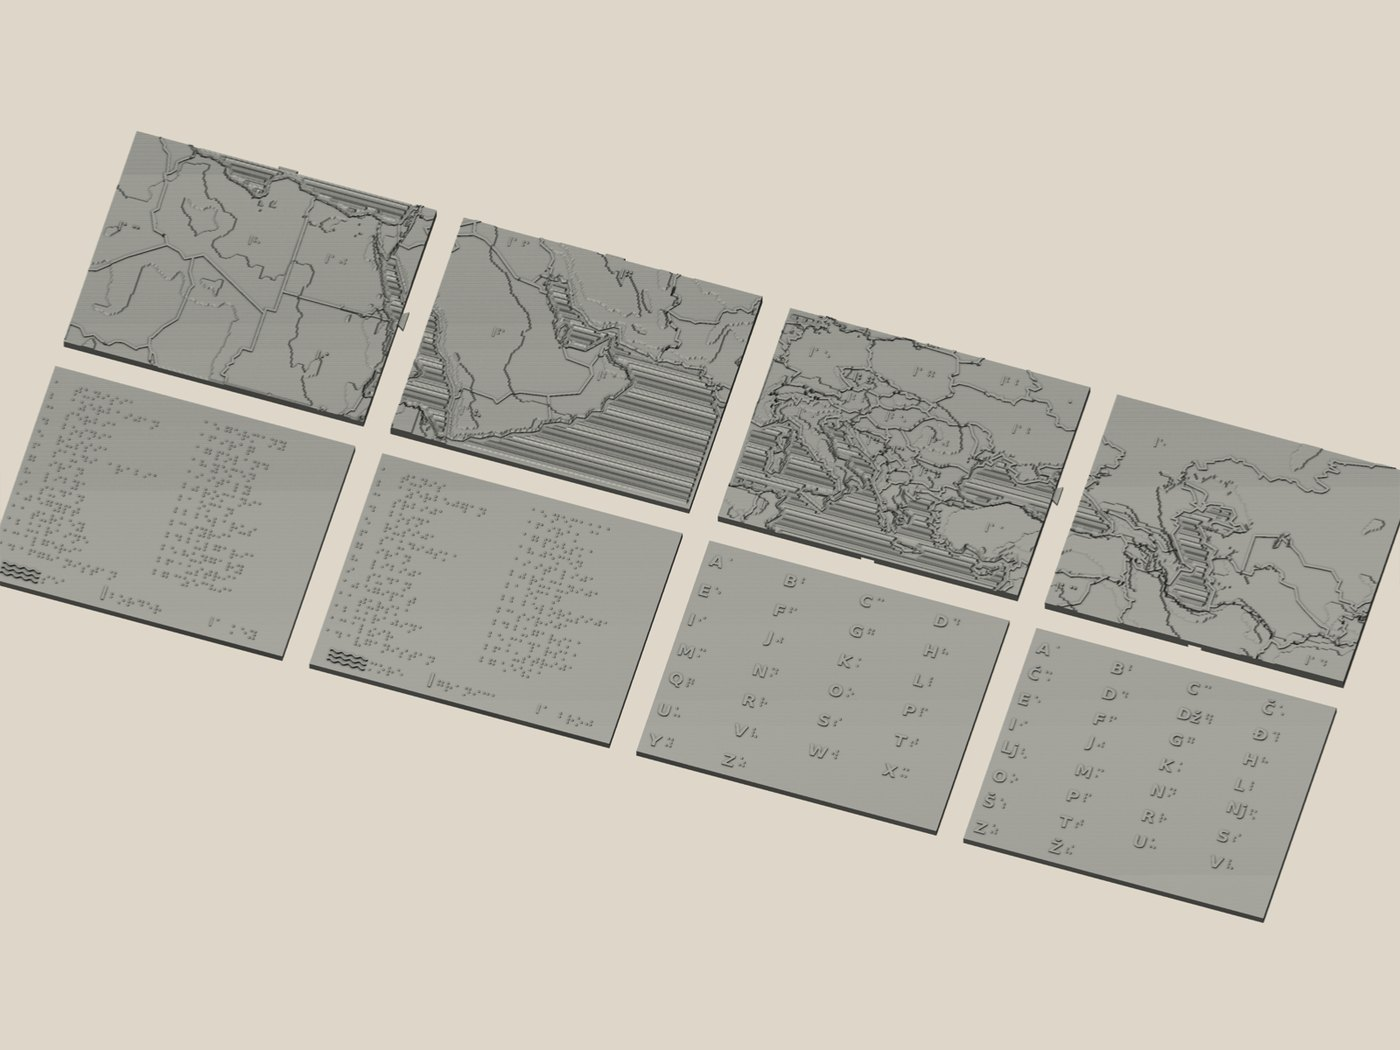
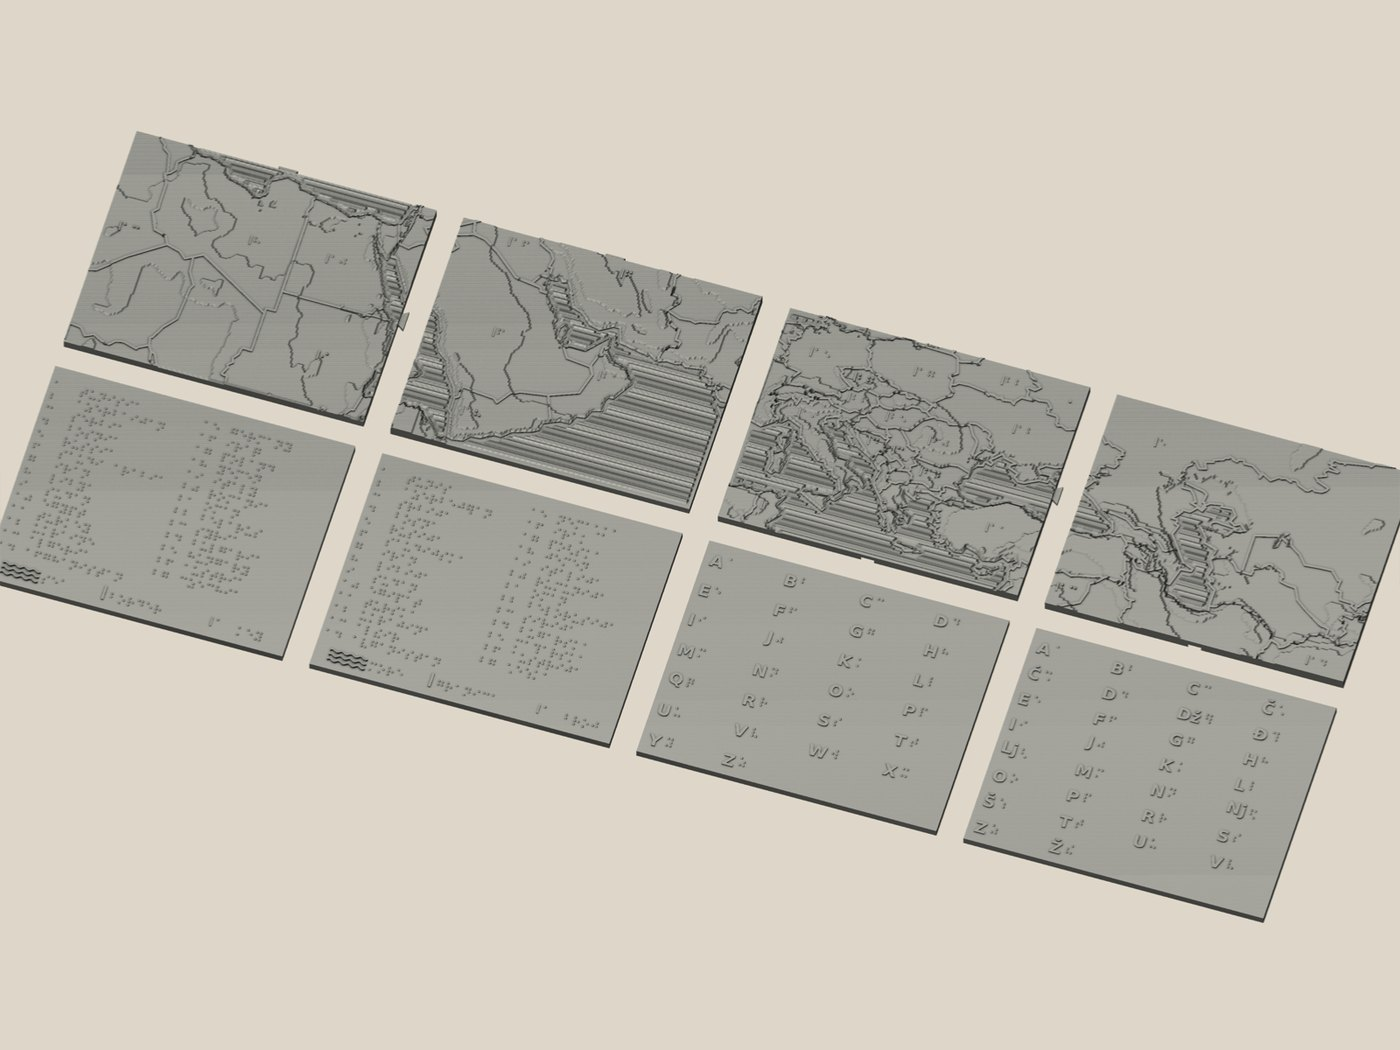
Put a real blank cell between the legend key and the country name
The name started at a fixed x+14 while the key is one cell for 1-9 and two
for 10-27. A word break in braille IS a blank cell - 12 mm at our 6 mm cell
pitch - and a two-cell key left only 8 mm, just 2 mm more than the ordinary
gap between adjacent cells. Under a finger '24 bugarska' ran together as
one string of cells, bdbugarska. 18 of the 27 rows read that way.

Names now start at x + 3 cell pitches, so the gap is 12 mm after a two-cell
key and 18 mm after a one-cell key - never less than a blank cell, and the
names stay aligned down the column instead of going ragged. Same fix on the
Serbian legend, and the same 12 mm minimum applied to the key/broj sample
label in the bottom strip. A 12-cell name still ends 8.7 mm inside its
column.

Verified on the exported card_legend.stl: dot columns at 4.0/6.5 (key cell
1), 10.0/12.5 (key cell 2), 22.0/24.5 (first name cell) - exactly one blank
cell between key and name.

diff --git a/core/generate.py b/core/generate.py
@@ -770,8 +770,13 @@ def create_legend_card(number_legend):
                 all_faces.append(kf + vert_offset)
                 vert_offset += len(kv)
 
-        # Country name in Braille (truncate to fit)
-        braille_x = x + 14
+        # Country name in Braille (truncate to fit).
+        # Offset = widest key (2 cells = 12 mm) + one BLANK cell (6 mm). A word
+        # break in braille IS a blank cell; at the old x+14 a two-cell key left
+        # only 8 mm to the name — 2 mm more than the ordinary 6 mm cell pitch —
+        # so "24 bugarska" read as one run, "bdbugarska". Fixed offset (not
+        # key-relative) keeps every name starting at the same x down the column.
+        braille_x = x + 2 * BRAILLE_CELL_PITCH_MM + BRAILLE_CELL_PITCH_MM
         short_name = name[:max_chars].lower()
 
         braille_verts, braille_faces = create_braille_text(
@@ -854,7 +859,7 @@ def create_legend_card(number_legend):
         all_verts.append(kv)
         all_faces.append(kf + vert_offset)
         vert_offset += len(kv)
-    lbl_verts, lbl_faces = create_braille_text("key", key_x + 14, label_y, base_z)
+    lbl_verts, lbl_faces = create_braille_text("key", key_x + 18, label_y, base_z)
     if len(lbl_verts) > 0:
         all_verts.append(lbl_verts)
         all_faces.append(lbl_faces + vert_offset)

diff --git a/core/serbian_legend.py b/core/serbian_legend.py
@@ -87,7 +87,10 @@ def build_serbian_legend(number_legend, out_path, embed=EMBED_MM, verbose=True):
         for i, dots in enumerate(braille_number_cells(str(num))):
             add(*create_braille_cell_dots(dots, x + i * BRAILLE_CELL_PITCH_MM, y, 0))
         name = name_sr(iso) or iso
-        bv, bf = serbian_braille_text(name, x + 14, y, 0)
+        # x + 18 = widest key (2 cells) + one BLANK cell: a word break in braille
+        # is a blank cell, and the old x+14 left a two-cell key only 8 mm of gap,
+        # so the key ran into the name under the finger. See generate.py.
+        bv, bf = serbian_braille_text(name, x + 3 * BRAILLE_CELL_PITCH_MM, y, 0)
         add(bv, bf)
 
     # texture samples: one bottom strip, Serbian label to the RIGHT of each
@@ -119,7 +122,7 @@ def build_serbian_legend(number_legend, out_path, embed=EMBED_MM, verbose=True):
     add(*create_braille_cell_dots(
         BRAILLE_DIGITS['1'], key_x + ANCHOR_LEAD_MM + BRAILLE_DOT_RADIUS_MM,
         sample_y + sample_h / 2 - BRAILLE_DOT_PITCH_MM, 0))
-    add(*serbian_braille_text("broj", key_x + 14, label_y, 0))
+    add(*serbian_braille_text("broj", key_x + 18, label_y, 0))
 
     soup = trimesh.Trimesh(vertices=np.vstack(soup_v), faces=np.vstack(soup_f),
                            process=True)
